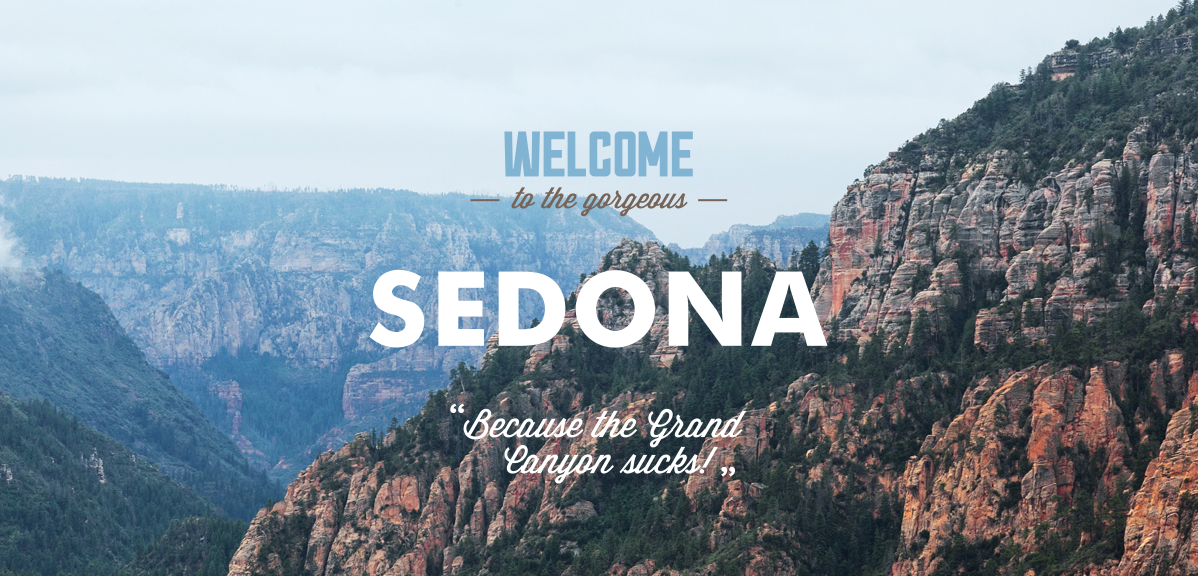
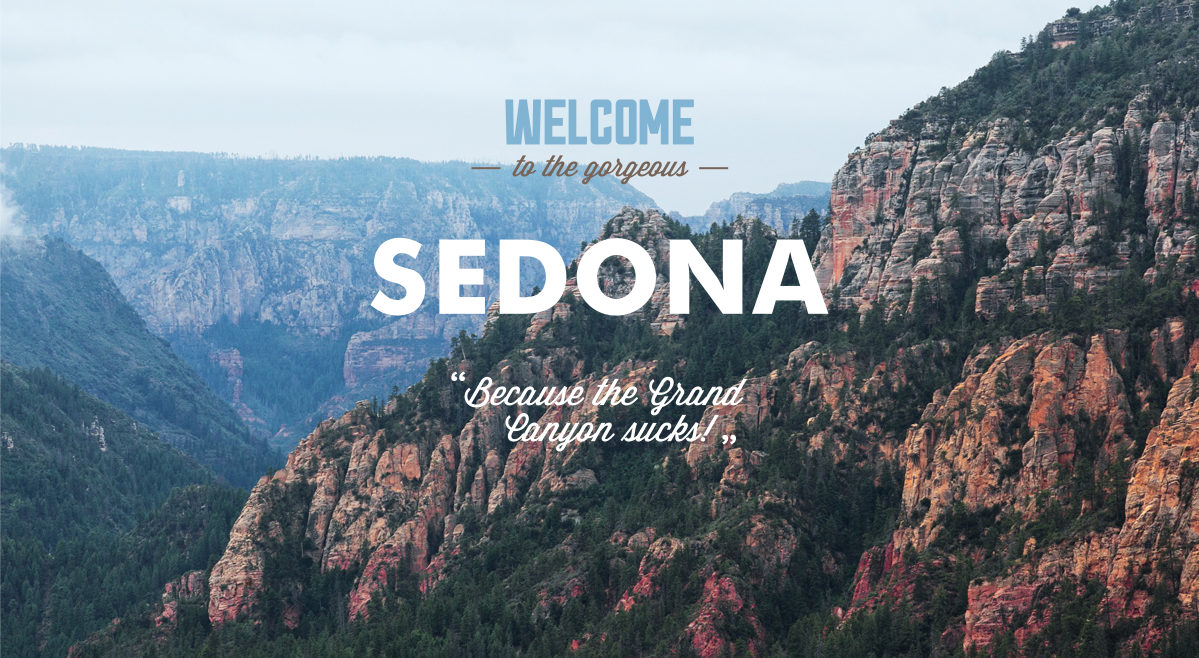
footer

diff --git a/hotels.html b/hotels.html
@@ -139,8 +139,8 @@
       <p>WEBSITE BY</p>
       <a class="copyright-active" href="https://htmlacademy.ru">
         <svg id="Layer_1" data-name="Layer 1" xmlns="http://www.w3.org/2000/svg" viewBox="0 0 108.08 36.85">
-          <title>logo-htmlacademy-small1</title>
-          <path d="M44.61,26.88a2,2,0,0,0,.55-0.1v1.33a3.25,3.25,0,0,1-1.18.21,1.67,1.67,0,0,1-1.67-1,4.84,4.84,0,0,1-3.14,1.08c-1.51,0-2.91-.83-2.91-2.55,0-2.13,2-2.79,3.71-2.79a11.08,11.08,0,0,1,2.17.25v-0.3c0-1-.76-1.77-2.19-1.77a7.42,7.42,0,0,0-3,.64v-1.7a10.21,10.21,0,0,1,3.19-.55c2.36,0,3.81,1.12,3.81,3.65v3a0.54,0.54,0,0,0,.49.59h0.17Zm-6.44-1.13A1.35,1.35,0,0,0,39.63,27h0.11a3.39,3.39,0,0,0,2.41-1V24.58a9.72,9.72,0,0,0-1.81-.21c-1,0-2.16.33-2.16,1.38h0Zm12.36-6.11a5,5,0,0,1,2.57.64V22a4.08,4.08,0,0,0-2.3-.7,2.75,2.75,0,1,0,0,5.49,5,5,0,0,0,2.43-.64v1.71a6.27,6.27,0,0,1-2.76.57A4.21,4.21,0,0,1,46,24.51q0-.21,0-0.41a4.32,4.32,0,0,1,4.18-4.46h0.38Zm12.17,7.24a2,2,0,0,0,.55-0.1v1.33a3.25,3.25,0,0,1-1.18.21,1.67,1.67,0,0,1-1.67-1,4.84,4.84,0,0,1-3.14,1.08c-1.51,0-2.91-.83-2.91-2.55,0-2.13,2-2.79,3.71-2.79a11.08,11.08,0,0,1,2.17.25v-0.3c0-1-.76-1.77-2.19-1.77a7.42,7.42,0,0,0-3,.64v-1.7a10.21,10.21,0,0,1,3.19-.55c2.36,0,3.81,1.12,3.81,3.65v3a0.54,0.54,0,0,0,.49.59h0.17Zm-6.44-1.13A1.35,1.35,0,0,0,57.73,27h0.11a3.39,3.39,0,0,0,2.41-1V24.58a9.72,9.72,0,0,0-1.81-.21c-1.06,0-2.16.33-2.16,1.38h0ZM73,16V28.2H71.35V26.88a3.88,3.88,0,0,1-3.19,1.54,4.4,4.4,0,0,1,0-8.78,3.81,3.81,0,0,1,3,1.3V16H73Zm-4.53,5.22a2.76,2.76,0,1,0,0,5.52A2.86,2.86,0,0,0,71.15,25V23A2.91,2.91,0,0,0,68.49,21.27ZM79,19.64c3.31,0,4.46,2.68,3.92,5.09H76.7c0.21,1.5,1.67,2.11,3.19,2.11a6.11,6.11,0,0,0,2.64-.59v1.6a7.14,7.14,0,0,1-3,.57C77,28.42,74.78,27,74.78,24a4.18,4.18,0,0,1,4-4.39H79Zm0.09,1.54a2.28,2.28,0,0,0-2.44,2.1v0.06H81.3A2,2,0,0,0,79.13,21.18Zm5.73,7V19.87h1.65v1a3.81,3.81,0,0,1,2.78-1.27A2.86,2.86,0,0,1,91.89,21a4.12,4.12,0,0,1,2.91-1.33A3.06,3.06,0,0,1,98,23V28.2h-1.9V23.05a1.59,1.59,0,0,0-1.42-1.75H94.42a2.8,2.8,0,0,0-2.07,1.12V28.2h-1.9V23.05A1.59,1.59,0,0,0,89,21.31H88.8a3,3,0,0,0-2.21,1.29v5.63H84.86Zm21.31-8.33h1.9l-3.91,9.46c-0.9,2.17-2.09,2.86-3.35,2.86a4.76,4.76,0,0,1-1.1-.14V30.46a2.86,2.86,0,0,0,.85.12c0.9,0,1.58-.64,2.07-1.9l0.17-.42-4-8.4h2l2.86,6.29ZM38.73,1.46V6.22a3.81,3.81,0,0,1,2.7-1.14,3.25,3.25,0,0,1,3.44,3.4v5.15H43V8.72a1.81,1.81,0,0,0-1.61-2h-0.3a2.93,2.93,0,0,0-2.32,1.39v5.52h-1.9V1.46h1.9ZM49.94,2.31v3h3V6.91h-3v3.81c0,1.1.5,1.46,1.58,1.46a4.49,4.49,0,0,0,1.69-.33v1.6A6.8,6.8,0,0,1,51,13.8a2.55,2.55,0,0,1-2.86-2.74V6.89H46.58V5.26h1.5V2.74Zm5.4,11.31V5.28H57v1A3.81,3.81,0,0,1,59.77,5a2.86,2.86,0,0,1,2.6,1.33A4.12,4.12,0,0,1,65.28,5,3.06,3.06,0,0,1,68.44,8.4v5.21h-1.9V8.46a1.59,1.59,0,0,0-1.42-1.75H64.89a2.8,2.8,0,0,0-2.07,1.12v5.78h-1.9V8.46A1.59,1.59,0,0,0,59.5,6.71H59.27A3,3,0,0,0,57.06,8v5.63H55.34ZM71.17,1.45H73V13.6H71.17V1.45ZM14.71,0H14.55L0,1.54V28.21l14.55,8.66,14.55-8.66V1.54Zm12.5,27.1L14.55,34.64,1.9,27.12V16.18l12.59,7.5V25L5.86,19.9v1.31l8.68,5.21v1.39L5.87,22.65V24l8.68,5.21,8.75-5.24V18.31L27.2,16V27.12Zm0-12.53-3.48,2-1.6,1L14.51,13v1.31L21,18.23H21l-0.14.09-1,.54-5.37-3.2V17l4.24,2.52-1,.67-3.2-1.9v1.31l2.1,1.24L14.5,22.1,2,14.65,14.51,7.11Zm0-1.32L14.49,5.76,1.91,13.25v-10L14.56,1.92,27.21,3.25v10h0Z" transform="translate(0 -0.02)" fill="#231f20" />
+<!--          <title>logo-htmlacademy-small1</title>-->
+          <path fill="#231f20" d="M44.61,26.88a2,2,0,0,0,.55-0.1v1.33a3.25,3.25,0,0,1-1.18.21,1.67,1.67,0,0,1-1.67-1,4.84,4.84,0,0,1-3.14,1.08c-1.51,0-2.91-.83-2.91-2.55,0-2.13,2-2.79,3.71-2.79a11.08,11.08,0,0,1,2.17.25v-0.3c0-1-.76-1.77-2.19-1.77a7.42,7.42,0,0,0-3,.64v-1.7a10.21,10.21,0,0,1,3.19-.55c2.36,0,3.81,1.12,3.81,3.65v3a0.54,0.54,0,0,0,.49.59h0.17Zm-6.44-1.13A1.35,1.35,0,0,0,39.63,27h0.11a3.39,3.39,0,0,0,2.41-1V24.58a9.72,9.72,0,0,0-1.81-.21c-1,0-2.16.33-2.16,1.38h0Zm12.36-6.11a5,5,0,0,1,2.57.64V22a4.08,4.08,0,0,0-2.3-.7,2.75,2.75,0,1,0,0,5.49,5,5,0,0,0,2.43-.64v1.71a6.27,6.27,0,0,1-2.76.57A4.21,4.21,0,0,1,46,24.51q0-.21,0-0.41a4.32,4.32,0,0,1,4.18-4.46h0.38Zm12.17,7.24a2,2,0,0,0,.55-0.1v1.33a3.25,3.25,0,0,1-1.18.21,1.67,1.67,0,0,1-1.67-1,4.84,4.84,0,0,1-3.14,1.08c-1.51,0-2.91-.83-2.91-2.55,0-2.13,2-2.79,3.71-2.79a11.08,11.08,0,0,1,2.17.25v-0.3c0-1-.76-1.77-2.19-1.77a7.42,7.42,0,0,0-3,.64v-1.7a10.21,10.21,0,0,1,3.19-.55c2.36,0,3.81,1.12,3.81,3.65v3a0.54,0.54,0,0,0,.49.59h0.17Zm-6.44-1.13A1.35,1.35,0,0,0,57.73,27h0.11a3.39,3.39,0,0,0,2.41-1V24.58a9.72,9.72,0,0,0-1.81-.21c-1.06,0-2.16.33-2.16,1.38h0ZM73,16V28.2H71.35V26.88a3.88,3.88,0,0,1-3.19,1.54,4.4,4.4,0,0,1,0-8.78,3.81,3.81,0,0,1,3,1.3V16H73Zm-4.53,5.22a2.76,2.76,0,1,0,0,5.52A2.86,2.86,0,0,0,71.15,25V23A2.91,2.91,0,0,0,68.49,21.27ZM79,19.64c3.31,0,4.46,2.68,3.92,5.09H76.7c0.21,1.5,1.67,2.11,3.19,2.11a6.11,6.11,0,0,0,2.64-.59v1.6a7.14,7.14,0,0,1-3,.57C77,28.42,74.78,27,74.78,24a4.18,4.18,0,0,1,4-4.39H79Zm0.09,1.54a2.28,2.28,0,0,0-2.44,2.1v0.06H81.3A2,2,0,0,0,79.13,21.18Zm5.73,7V19.87h1.65v1a3.81,3.81,0,0,1,2.78-1.27A2.86,2.86,0,0,1,91.89,21a4.12,4.12,0,0,1,2.91-1.33A3.06,3.06,0,0,1,98,23V28.2h-1.9V23.05a1.59,1.59,0,0,0-1.42-1.75H94.42a2.8,2.8,0,0,0-2.07,1.12V28.2h-1.9V23.05A1.59,1.59,0,0,0,89,21.31H88.8a3,3,0,0,0-2.21,1.29v5.63H84.86Zm21.31-8.33h1.9l-3.91,9.46c-0.9,2.17-2.09,2.86-3.35,2.86a4.76,4.76,0,0,1-1.1-.14V30.46a2.86,2.86,0,0,0,.85.12c0.9,0,1.58-.64,2.07-1.9l0.17-.42-4-8.4h2l2.86,6.29ZM38.73,1.46V6.22a3.81,3.81,0,0,1,2.7-1.14,3.25,3.25,0,0,1,3.44,3.4v5.15H43V8.72a1.81,1.81,0,0,0-1.61-2h-0.3a2.93,2.93,0,0,0-2.32,1.39v5.52h-1.9V1.46h1.9ZM49.94,2.31v3h3V6.91h-3v3.81c0,1.1.5,1.46,1.58,1.46a4.49,4.49,0,0,0,1.69-.33v1.6A6.8,6.8,0,0,1,51,13.8a2.55,2.55,0,0,1-2.86-2.74V6.89H46.58V5.26h1.5V2.74Zm5.4,11.31V5.28H57v1A3.81,3.81,0,0,1,59.77,5a2.86,2.86,0,0,1,2.6,1.33A4.12,4.12,0,0,1,65.28,5,3.06,3.06,0,0,1,68.44,8.4v5.21h-1.9V8.46a1.59,1.59,0,0,0-1.42-1.75H64.89a2.8,2.8,0,0,0-2.07,1.12v5.78h-1.9V8.46A1.59,1.59,0,0,0,59.5,6.71H59.27A3,3,0,0,0,57.06,8v5.63H55.34ZM71.17,1.45H73V13.6H71.17V1.45ZM14.71,0H14.55L0,1.54V28.21l14.55,8.66,14.55-8.66V1.54Zm12.5,27.1L14.55,34.64,1.9,27.12V16.18l12.59,7.5V25L5.86,19.9v1.31l8.68,5.21v1.39L5.87,22.65V24l8.68,5.21,8.75-5.24V18.31L27.2,16V27.12Zm0-12.53-3.48,2-1.6,1L14.51,13v1.31L21,18.23H21l-0.14.09-1,.54-5.37-3.2V17l4.24,2.52-1,.67-3.2-1.9v1.31l2.1,1.24L14.5,22.1,2,14.65,14.51,7.11Zm0-1.32L14.49,5.76,1.91,13.25v-10L14.56,1.92,27.21,3.25v10h0Z" transform="translate(0 -0.02)"  />
         </svg>
 
       </a>

diff --git a/css/style.css b/css/style.css
@@ -55,10 +55,12 @@ input[type="radio"].visually-hidden {
 .main-navigation {
   height: 56px;
   position: relative;
+  margin: 0;
   /*  background-color: white;*/
 }
 .main-header {
   background-color: white;
+  margin: 0;
 }
 .main-header-logo {
   position: absolute;
@@ -78,6 +80,7 @@ input[type="radio"].visually-hidden {
   list-style: none;
   margin-left: 65px;
   margin-right: 65px;
+  margin: 0;
 }
 .site-navigation a:hover {
   /*  color: #000000;*/
@@ -103,30 +106,28 @@ input[type="radio"].visually-hidden {
 .container2 {
   box-shadow: 0 14px 28px rgba(0, 0, 0, 0.25), 0 10px 10px rgba(0, 0, 0, 0.22);
 }
-.sedona {
+.header--index {
   position: relative;
-  background-image: url("../img/welcome7.png");
+  background-image: url("../img/welcome.png");
   background-repeat: no-repeat;
   background-position: top center;
   background-color: #ffffff;
   background-size: cover;
-    width: 1200px;
-    max-height: 650px;
- 
-}
-.header--index {
-  min-height: 390px;
-}
-.header--index:before {
-  content: "";
-  position: absolute;
-  bottom: 0;
-  right: 0;
   width: 1200px;
-  height: 57px;
-  background-image: url("../img/polygon.png");
-  background-repeat: no-repeat;
-  /*  background-size: 100% 57px;*/
+  max-height: 650px;
+  z-index: -10;
+  top: -30px;
+}
+.header--index::after {
+  content: '';
+  display: block;
+  background-image: url(../img/polygon.svg);
+  background-size: cover;
+  width: 100%;
+  position: absolute;
+  z-index: 10;
+  bottom: 120px;
+  height: 55px;
 }
 .middle {
   width: 87%;
@@ -208,6 +209,7 @@ input[type="radio"].visually-hidden {
   display: flex;
   padding: 30px 75px;
   border-bottom: 1px solid gray;
+  margin: 0;
 }
 .catalog-item-image {
   display: flex;
@@ -260,10 +262,9 @@ input[type="radio"].visually-hidden {
   width: 100%;
   background-color: rgb(255, 255, 255);
   box-shadow: 0 14px 28px rgba(0, 0, 0, 0.25), 0 10px 10px rgba(0, 0, 0, 0.22);
-  /*  font-size: 21px;*/
-  /*  font-weight: 700;*/
-  /*  line-height: 26px;*/
-  /*    padding-right: 380px;*/
+  position: relative;
+  z-index: 10;
+  top: -150px;
 }
 .reason {
   margin: 0 auto;
@@ -272,6 +273,7 @@ input[type="radio"].visually-hidden {
   text-align: center;
   background-color: rgb(255, 255, 255);
   /*  width: 500px;*/
+  z-index: 10;
 }
 .reason h2 {
   font-size: 21px;
@@ -288,6 +290,7 @@ input[type="radio"].visually-hidden {
 .catalog-list {
   list-style-type: none;
   padding: 0;
+  margin: 0;
 }
 .interest {
   color: #000000;
@@ -362,7 +365,7 @@ input[type="radio"].visually-hidden {
   text-align: center;
 }
 .main-footer {
-  /*  position: relative;*/
+  position: relative;
   /*  margin-left: 112px;*/
   margin-right: 112px;
   display: flex;
@@ -372,7 +375,7 @@ input[type="radio"].visually-hidden {
   background-color: white;
   width: 100%;
   min-height: 120px;
-/*  bottom: 0;*/
+  /*  bottom: 0;*/
   box-shadow: 0 14px 28px rgba(0, 0, 0, 0.25), 0 10px 10px rgba(0, 0, 0, 0.22);
   align-items: center;
   padding-left: 130px;
@@ -416,6 +419,8 @@ input[type="radio"].visually-hidden {
   background-color: #81b3d2;
 }
 .copyright {
+    display: flex;
+    justify-content: center;
   font-size: 14px;
   font-weight: 400;
   line-height: 26px;
@@ -426,16 +431,17 @@ input[type="radio"].visually-hidden {
 /*    background-image:url(logoname2.svg)*/
 
 .copyright-active:hover {
-  /*  background-image:url('logoname.png');*/
-  content: url('logoname.png');
+  background-image:url('logoname.png');
+/*  content: url('logoname.png');*/
 }
 .search-hotels {
   position: relative;
   text-align: center;
   background-color: rgb(255, 255, 255);
   padding-top: 53px;
-  z-index: 15;
+  z-index: 10;
   box-shadow: 0 14px 28px rgba(0, 0, 0, 0.25), 0 10px 10px rgba(0, 0, 0, 0.22);
+  top: -152px;
 }
 .search-hotels h3 {
   margin-top: -5px;
@@ -470,7 +476,7 @@ input[type="radio"].visually-hidden {
 }
 .ordering {
   position: absolute;
-  z-index: 0;
+  z-index: 50;
   left: 25.2%;
   right: 25.2%;
   margin: 0 auto;
@@ -659,7 +665,7 @@ input[type="radio"].visually-hidden {
 }
 .map {
   width: 100%;
-  height: 593px;
+  height: 470px;
   text-align: center;
   z-index: 20;
 }

diff --git a/index.html b/index.html
@@ -34,7 +34,7 @@
   <main class="container2">
     <div class="sedona header--index">
      <div class="sedona-present">
-<img src="img/welcome7.png"  alt="WELCOME">
+<img src="img/welcome.png"  alt="WELCOME">
       </div>
     </div>
     <section class="paragraph">
